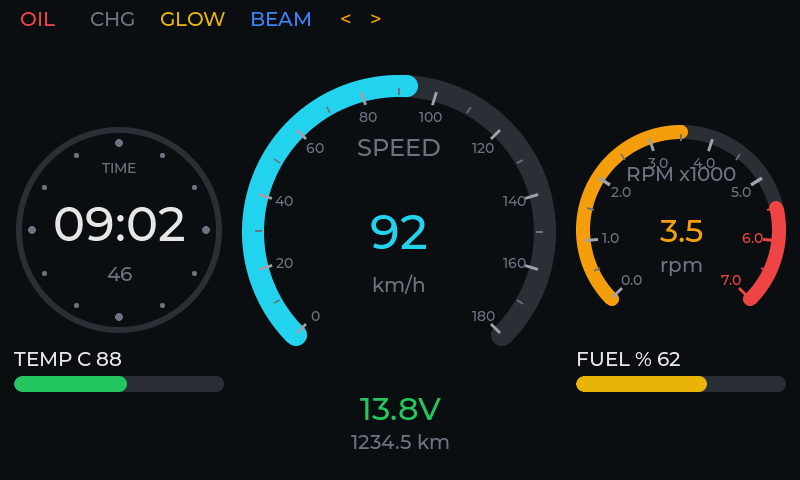
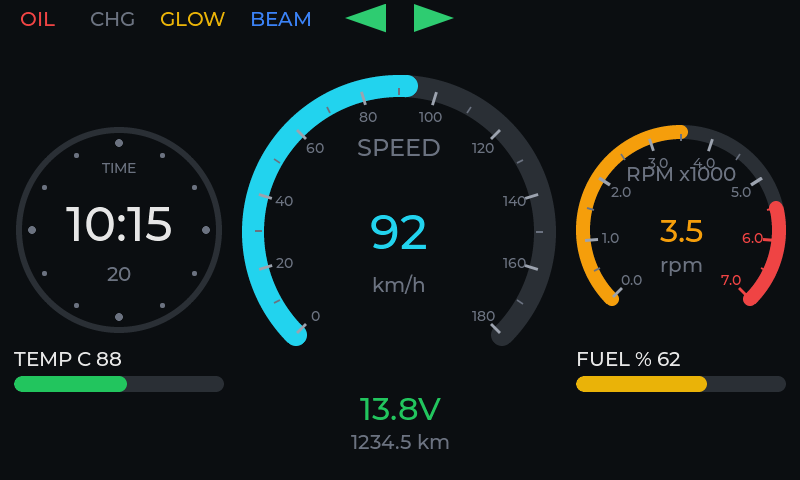
feat(ui): добавить классические стрелки поворотников

Changed region(s): [[0.0625, 0.4062, 0.25, 0.5], [0.4062, 0.0, 0.5625, 0.0625], [0.125, 0.5625, 0.1875, 0.5938]]

diff --git a/arduino/t3-dash/ui_lvgl.cpp b/arduino/t3-dash/ui_lvgl.cpp
@@ -19,7 +19,10 @@ constexpr uint32_t COL_GREEN = 0x22C55E;
 constexpr uint32_t COL_YELLOW = 0xEAB308;
 constexpr uint32_t COL_BLUE = 0x3B82F6;
 constexpr uint32_t COL_TICK = 0x9CA3AF;
+constexpr uint32_t COL_TURN = 0x2ECC71;
 
+constexpr int ARROW_W = 54;
+constexpr int ARROW_H = 32;
 constexpr int SIDE_SIZE = 210;
 constexpr int SPEED_SIZE = 315;
 constexpr int CLOCK_SIZE = 210;
@@ -50,8 +53,11 @@ lv_obj_t* g_indOil = nullptr;
 lv_obj_t* g_indChg = nullptr;
 lv_obj_t* g_indGlow = nullptr;
 lv_obj_t* g_indBeam = nullptr;
-lv_obj_t* g_indLeft = nullptr;
-lv_obj_t* g_indRight = nullptr;
+
+lv_obj_t* g_turnLeft = nullptr;
+lv_obj_t* g_turnRight = nullptr;
+lv_color_t g_leftArrowBuf[ARROW_W * ARROW_H];
+lv_color_t g_rightArrowBuf[ARROW_W * ARROW_H];
 
 lv_obj_t* g_clockTime = nullptr;
 lv_obj_t* g_clockSeconds = nullptr;
@@ -249,6 +255,38 @@ void setIndicator(lv_obj_t* label, bool on, uint32_t color) {
   lv_obj_set_style_text_color(label, lv_color_hex(on ? color : COL_DIM), 0);
 }
 
+lv_obj_t* createTurnArrow(lv_obj_t* parent, int x, int y, bool left,
+                          lv_color_t* buffer) {
+  static const lv_point_t leftHead[] = {{7, 16}, {47, 2}, {47, 30}};
+  static const lv_point_t rightHead[] = {{46, 16}, {6, 2}, {6, 30}};
+
+  lv_obj_t* canvas = lv_canvas_create(parent);
+  lv_canvas_set_buffer(canvas, buffer, ARROW_W, ARROW_H, LV_IMG_CF_TRUE_COLOR);
+  lv_canvas_fill_bg(canvas, lv_color_hex(COL_BG), LV_OPA_COVER);
+
+  lv_draw_rect_dsc_t dsc;
+  lv_draw_rect_dsc_init(&dsc);
+  dsc.bg_color = lv_color_hex(COL_TURN);
+  dsc.bg_opa = LV_OPA_COVER;
+  dsc.radius = 0;
+  dsc.border_width = 0;
+
+  lv_canvas_draw_polygon(canvas, left ? leftHead : rightHead, 3, &dsc);
+
+  lv_obj_set_pos(canvas, x, y);
+  lv_obj_add_flag(canvas, LV_OBJ_FLAG_HIDDEN);
+  lv_obj_clear_flag(canvas, LV_OBJ_FLAG_CLICKABLE);
+  return canvas;
+}
+
+void setBlinking(lv_obj_t* arrow, bool active, bool blinkOn) {
+  if (active && blinkOn) {
+    lv_obj_clear_flag(arrow, LV_OBJ_FLAG_HIDDEN);
+  } else {
+    lv_obj_add_flag(arrow, LV_OBJ_FLAG_HIDDEN);
+  }
+}
+
 lv_obj_t* createBar(lv_obj_t* parent, int x, int y, int width, int32_t lo, int32_t hi,
                     uint32_t color) {
   lv_obj_t* bar = lv_bar_create(parent);
@@ -325,10 +363,10 @@ void init() {
   lv_obj_set_pos(g_indGlow, 160, 8);
   g_indBeam = makeLabel(screen, "BEAM", &lv_font_montserrat_20, COL_DIM);
   lv_obj_set_pos(g_indBeam, 250, 8);
-  g_indLeft = makeLabel(screen, "<", &lv_font_montserrat_20, COL_DIM);
-  lv_obj_set_pos(g_indLeft, 340, 8);
-  g_indRight = makeLabel(screen, ">", &lv_font_montserrat_20, COL_DIM);
-  lv_obj_set_pos(g_indRight, 370, 8);
+
+  // Classic VW turn signal arrows, centred on top and blinking.
+  g_turnLeft = createTurnArrow(screen, 338, 2, true, g_leftArrowBuf);
+  g_turnRight = createTurnArrow(screen, 408, 2, false, g_rightArrowBuf);
 
   // Left: clock. Center: large speedometer. Right: tachometer.
   createClock(screen, 14, 125, CLOCK_SIZE);
@@ -385,8 +423,10 @@ void update(const Values& v) {
   setIndicator(g_indChg, v.chargeWarning, COL_RED);
   setIndicator(g_indGlow, v.glowPlug, COL_YELLOW);
   setIndicator(g_indBeam, v.highBeam, COL_BLUE);
-  setIndicator(g_indLeft, v.turnLeft, COL_ORANGE);
-  setIndicator(g_indRight, v.turnRight, COL_ORANGE);
+
+  const bool blinkOn = ((lv_tick_get() / 350U) & 1U) == 0U;
+  setBlinking(g_turnLeft, v.turnLeft, blinkOn);
+  setBlinking(g_turnRight, v.turnRight, blinkOn);
 
   updateClock();
 }

diff --git a/src/ui/lvgl/ui_lvgl.cpp b/src/ui/lvgl/ui_lvgl.cpp
@@ -19,7 +19,10 @@ constexpr uint32_t COL_GREEN = 0x22C55E;
 constexpr uint32_t COL_YELLOW = 0xEAB308;
 constexpr uint32_t COL_BLUE = 0x3B82F6;
 constexpr uint32_t COL_TICK = 0x9CA3AF;
+constexpr uint32_t COL_TURN = 0x2ECC71;
 
+constexpr int ARROW_W = 54;
+constexpr int ARROW_H = 32;
 constexpr int SIDE_SIZE = 210;
 constexpr int SPEED_SIZE = 315;
 constexpr int CLOCK_SIZE = 210;
@@ -50,8 +53,11 @@ lv_obj_t* g_indOil = nullptr;
 lv_obj_t* g_indChg = nullptr;
 lv_obj_t* g_indGlow = nullptr;
 lv_obj_t* g_indBeam = nullptr;
-lv_obj_t* g_indLeft = nullptr;
-lv_obj_t* g_indRight = nullptr;
+
+lv_obj_t* g_turnLeft = nullptr;
+lv_obj_t* g_turnRight = nullptr;
+lv_color_t g_leftArrowBuf[ARROW_W * ARROW_H];
+lv_color_t g_rightArrowBuf[ARROW_W * ARROW_H];
 
 lv_obj_t* g_clockTime = nullptr;
 lv_obj_t* g_clockSeconds = nullptr;
@@ -249,6 +255,38 @@ void setIndicator(lv_obj_t* label, bool on, uint32_t color) {
   lv_obj_set_style_text_color(label, lv_color_hex(on ? color : COL_DIM), 0);
 }
 
+lv_obj_t* createTurnArrow(lv_obj_t* parent, int x, int y, bool left,
+                          lv_color_t* buffer) {
+  static const lv_point_t leftHead[] = {{7, 16}, {47, 2}, {47, 30}};
+  static const lv_point_t rightHead[] = {{46, 16}, {6, 2}, {6, 30}};
+
+  lv_obj_t* canvas = lv_canvas_create(parent);
+  lv_canvas_set_buffer(canvas, buffer, ARROW_W, ARROW_H, LV_IMG_CF_TRUE_COLOR);
+  lv_canvas_fill_bg(canvas, lv_color_hex(COL_BG), LV_OPA_COVER);
+
+  lv_draw_rect_dsc_t dsc;
+  lv_draw_rect_dsc_init(&dsc);
+  dsc.bg_color = lv_color_hex(COL_TURN);
+  dsc.bg_opa = LV_OPA_COVER;
+  dsc.radius = 0;
+  dsc.border_width = 0;
+
+  lv_canvas_draw_polygon(canvas, left ? leftHead : rightHead, 3, &dsc);
+
+  lv_obj_set_pos(canvas, x, y);
+  lv_obj_add_flag(canvas, LV_OBJ_FLAG_HIDDEN);
+  lv_obj_clear_flag(canvas, LV_OBJ_FLAG_CLICKABLE);
+  return canvas;
+}
+
+void setBlinking(lv_obj_t* arrow, bool active, bool blinkOn) {
+  if (active && blinkOn) {
+    lv_obj_clear_flag(arrow, LV_OBJ_FLAG_HIDDEN);
+  } else {
+    lv_obj_add_flag(arrow, LV_OBJ_FLAG_HIDDEN);
+  }
+}
+
 lv_obj_t* createBar(lv_obj_t* parent, int x, int y, int width, int32_t lo, int32_t hi,
                     uint32_t color) {
   lv_obj_t* bar = lv_bar_create(parent);
@@ -325,10 +363,10 @@ void init() {
   lv_obj_set_pos(g_indGlow, 160, 8);
   g_indBeam = makeLabel(screen, "BEAM", &lv_font_montserrat_20, COL_DIM);
   lv_obj_set_pos(g_indBeam, 250, 8);
-  g_indLeft = makeLabel(screen, "<", &lv_font_montserrat_20, COL_DIM);
-  lv_obj_set_pos(g_indLeft, 340, 8);
-  g_indRight = makeLabel(screen, ">", &lv_font_montserrat_20, COL_DIM);
-  lv_obj_set_pos(g_indRight, 370, 8);
+
+  // Classic VW turn signal arrows, centred on top and blinking.
+  g_turnLeft = createTurnArrow(screen, 338, 2, true, g_leftArrowBuf);
+  g_turnRight = createTurnArrow(screen, 408, 2, false, g_rightArrowBuf);
 
   // Left: clock. Center: large speedometer. Right: tachometer.
   createClock(screen, 14, 125, CLOCK_SIZE);
@@ -385,8 +423,10 @@ void update(const Values& v) {
   setIndicator(g_indChg, v.chargeWarning, COL_RED);
   setIndicator(g_indGlow, v.glowPlug, COL_YELLOW);
   setIndicator(g_indBeam, v.highBeam, COL_BLUE);
-  setIndicator(g_indLeft, v.turnLeft, COL_ORANGE);
-  setIndicator(g_indRight, v.turnRight, COL_ORANGE);
+
+  const bool blinkOn = ((lv_tick_get() / 350U) & 1U) == 0U;
+  setBlinking(g_turnLeft, v.turnLeft, blinkOn);
+  setBlinking(g_turnRight, v.turnRight, blinkOn);
 
   updateClock();
 }
